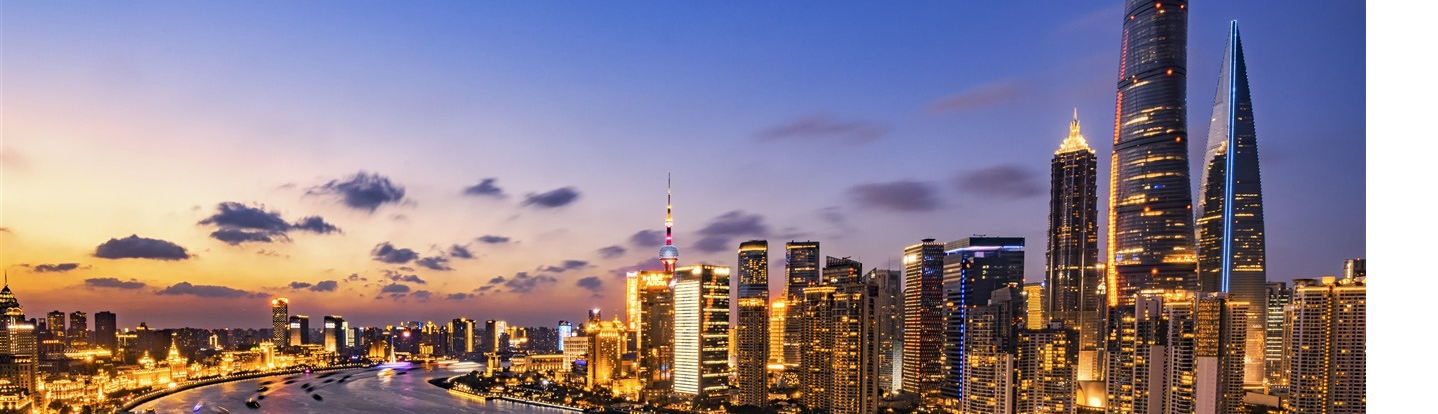
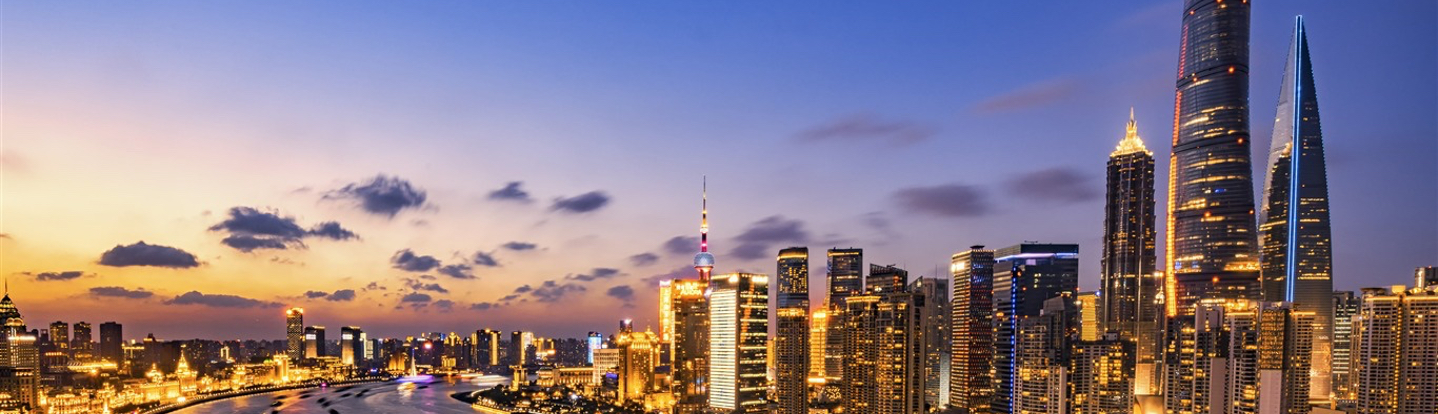
dev

diff --git a/css/style.css b/css/style.css
@@ -519,24 +519,26 @@ p.sub_p {
 }
 
 .banner_inner_con {
-    background: url(../images/banner1.jpg) no-repeat 0 0;
+    background: url(../images/banner1.jpg) ;
     background-size: cover;
     -webkit-background-size: cover;
     -o-background-size: cover;
     -ms-background-size: cover;
     min-height: 300px;
+    background-position-x: center;
+    background-repeat: repeat-x;
 }
 body.about .banner_inner_con {
-    background: url(../images/banner2.jpg) no-repeat 0 0;
+    background: url(../images/banner2.jpg);
 }
 body.portfolio .banner_inner_con {
-    background: url(../images/banner3.jpg) no-repeat 0 0;
+    background: url(../images/banner3.jpg);
 }
 body.platform .banner_inner_con {
-    background: url(../images/banner4.jpg) no-repeat 0 0;
+    background: url(../images/banner4.jpg);
 }
 body.service .banner_inner_con {
-    background: url(../images/banner5.jpg) no-repeat 0 0;
+    background: url(../images/banner5.jpg);
 }
 .services-breadcrumb {
     padding: 1em 1em;
